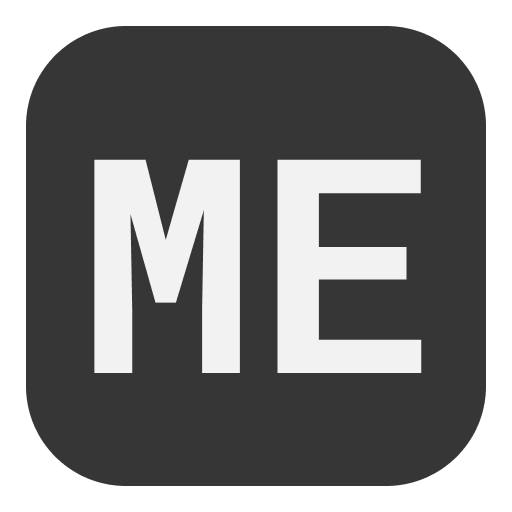
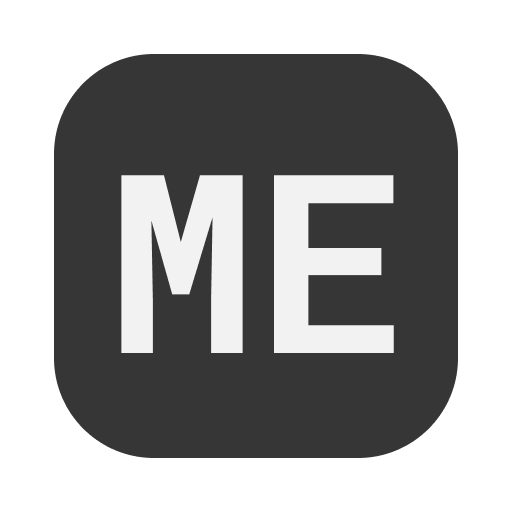
Release v1.3.0 (#60)
- Add changelog entries for v1.3.0
- Fix duplicate affectedItems declaration in EditRecipeModal
- Auto-refresh app after restoring from backup
- Fix "Used In" navigation not jumping to correct page
- Update app version and icons

diff --git a/src/shared/changelog.ts b/src/shared/changelog.ts
@@ -14,6 +14,54 @@ export interface ChangelogEntry {
 
 export const CHANGELOG: ChangelogEntry[] = [
   {
+    version: '1.3.0',
+    date: '2026-02-05T12:00:00',
+    changes: [
+      {
+        category: 'New',
+        description: {
+          en: 'Added search for ingredients and recipes.',
+          es: 'Se agregó búsqueda de ingredientes y recetas.',
+        },
+      },
+      {
+        category: 'New',
+        description: {
+          en: 'Units can now be changed on existing ingredients and recipes.',
+          es: 'Ahora se pueden cambiar las unidades de ingredientes y recetas existentes.',
+        },
+      },
+      {
+        category: 'Improved',
+        description: {
+          en: 'Improved unit change and recipe modal styling and UX.',
+          es: 'Se mejoró el estilo y la experiencia de los modales de cambio de unidad y recetas.',
+        },
+      },
+      {
+        category: 'Fixed',
+        description: {
+          en: 'Fixed unit picker displaying disabled units.',
+          es: 'Se corrigió el selector de unidades que mostraba unidades deshabilitadas.',
+        },
+      },
+      {
+        category: 'Fixed',
+        description: {
+          en: 'Fixed "Used In" navigation not showing recipes on other pages.',
+          es: 'Se corrigió la navegación de "Usado en" que no mostraba recetas en otras páginas.',
+        },
+      },
+      {
+        category: 'Improved',
+        description: {
+          en: 'Restoring from backup now automatically refreshes the app.',
+          es: 'Restaurar desde una copia de seguridad ahora actualiza la aplicación automáticamente.',
+        },
+      },
+    ],
+  },
+  {
     version: '1.2.2',
     date: '2026-01-23T12:00:00',
     changes: [

diff --git a/src/renderer/pages/BrowseRecipes/components/Table.tsx b/src/renderer/pages/BrowseRecipes/components/Table.tsx
@@ -135,6 +135,21 @@ const Table = ({
     }
   }
 
+  // When a recipe is selected (e.g. via "Used In"), jump to its page
+  React.useEffect(() => {
+    const activeId = activeRecipeIdSignal.value
+    if (!activeId) return
+
+    const sortedRecipes = [...filteredRecipes].sort(getComparator(order, orderBy))
+    const index = sortedRecipes.findIndex((r) => r.id === activeId)
+    if (index === -1) return
+
+    const targetPage = Math.floor(index / rowsPerPage)
+    if (targetPage !== page) {
+      setPage(targetPage)
+    }
+  }, [activeRecipeIdSignal.value, filteredRecipes, order, orderBy, rowsPerPage, page])
+
   // Avoid a layout jump when reaching the last page with empty rows.
   const emptyRows = page > 0 ? Math.max(0, (1 + page) * rowsPerPage - filteredRecipes.length) : 0
 

diff --git a/src/renderer/sharedComponents/Modal/components/EditRecipeModal.tsx b/src/renderer/sharedComponents/Modal/components/EditRecipeModal.tsx
@@ -162,18 +162,6 @@ const EditRecipeModal = ({ recipe }: EditRecipeModalProps) => {
     if (unitChanged) {
       // Show confirmation modal
       const isCompatible = areUnitsCompatible(originalUnit, formData.units)
-      const affectedItems =
-        recipeData?.usedInRecipes?.map((parentRecipe) => ({
-          id: parentRecipe.id,
-          title: parentRecipe.title,
-        })) ?? []
-
-      // If recipe isn't used anywhere, no need to show any confirmation
-      if (affectedItems.length === 0) {
-        performUpdate()
-        return
-      }
-
       // Build affected items with quantity info
       const affectedItems =
         recipeData?.usedInRecipes?.map((parentRecipe) => {

diff --git a/src/renderer/sharedComponents/Modal/components/SettingsModal/components/TabData.tsx b/src/renderer/sharedComponents/Modal/components/SettingsModal/components/TabData.tsx
@@ -168,10 +168,7 @@ const TabData = () => {
       })
 
       if (result.success) {
-        setMessage({
-          type: 'success',
-          text: t('dataRestoredSuccessfully'),
-        })
+        window.location.reload()
       } else {
         setMessage({
           type: 'error',
